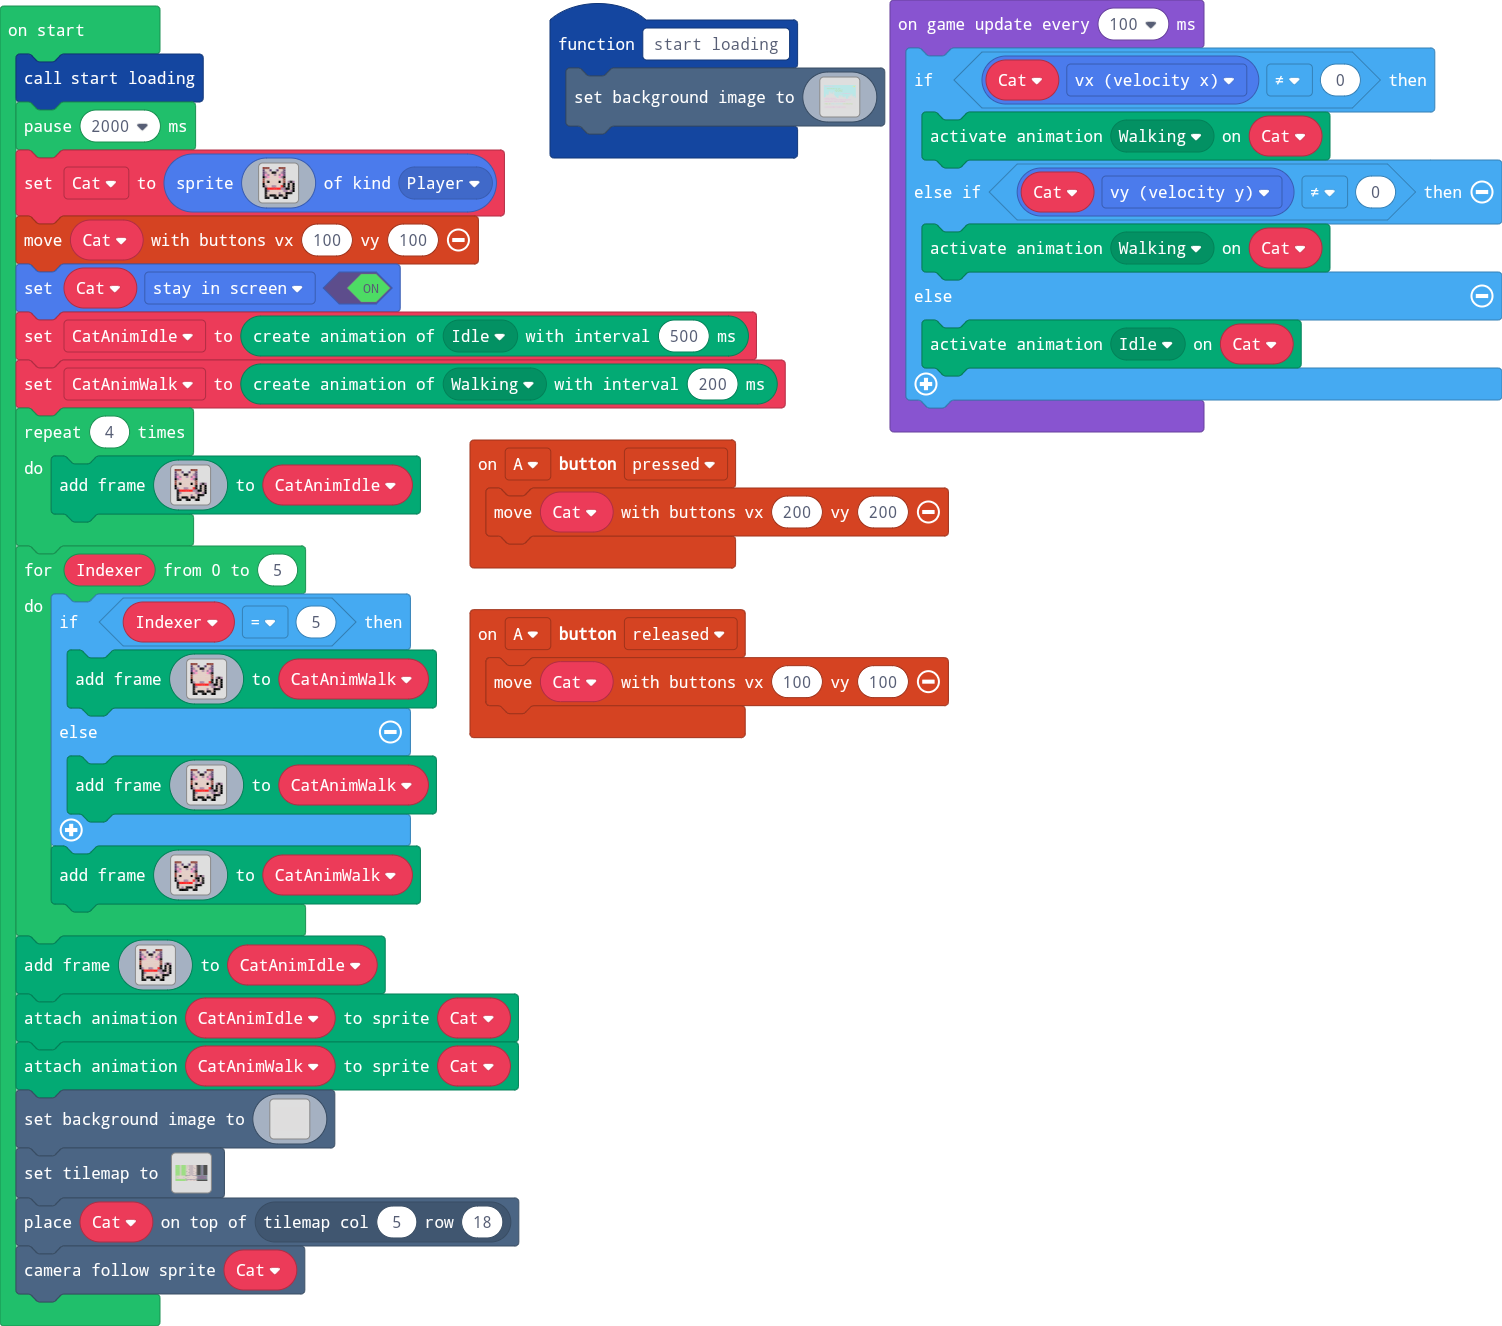
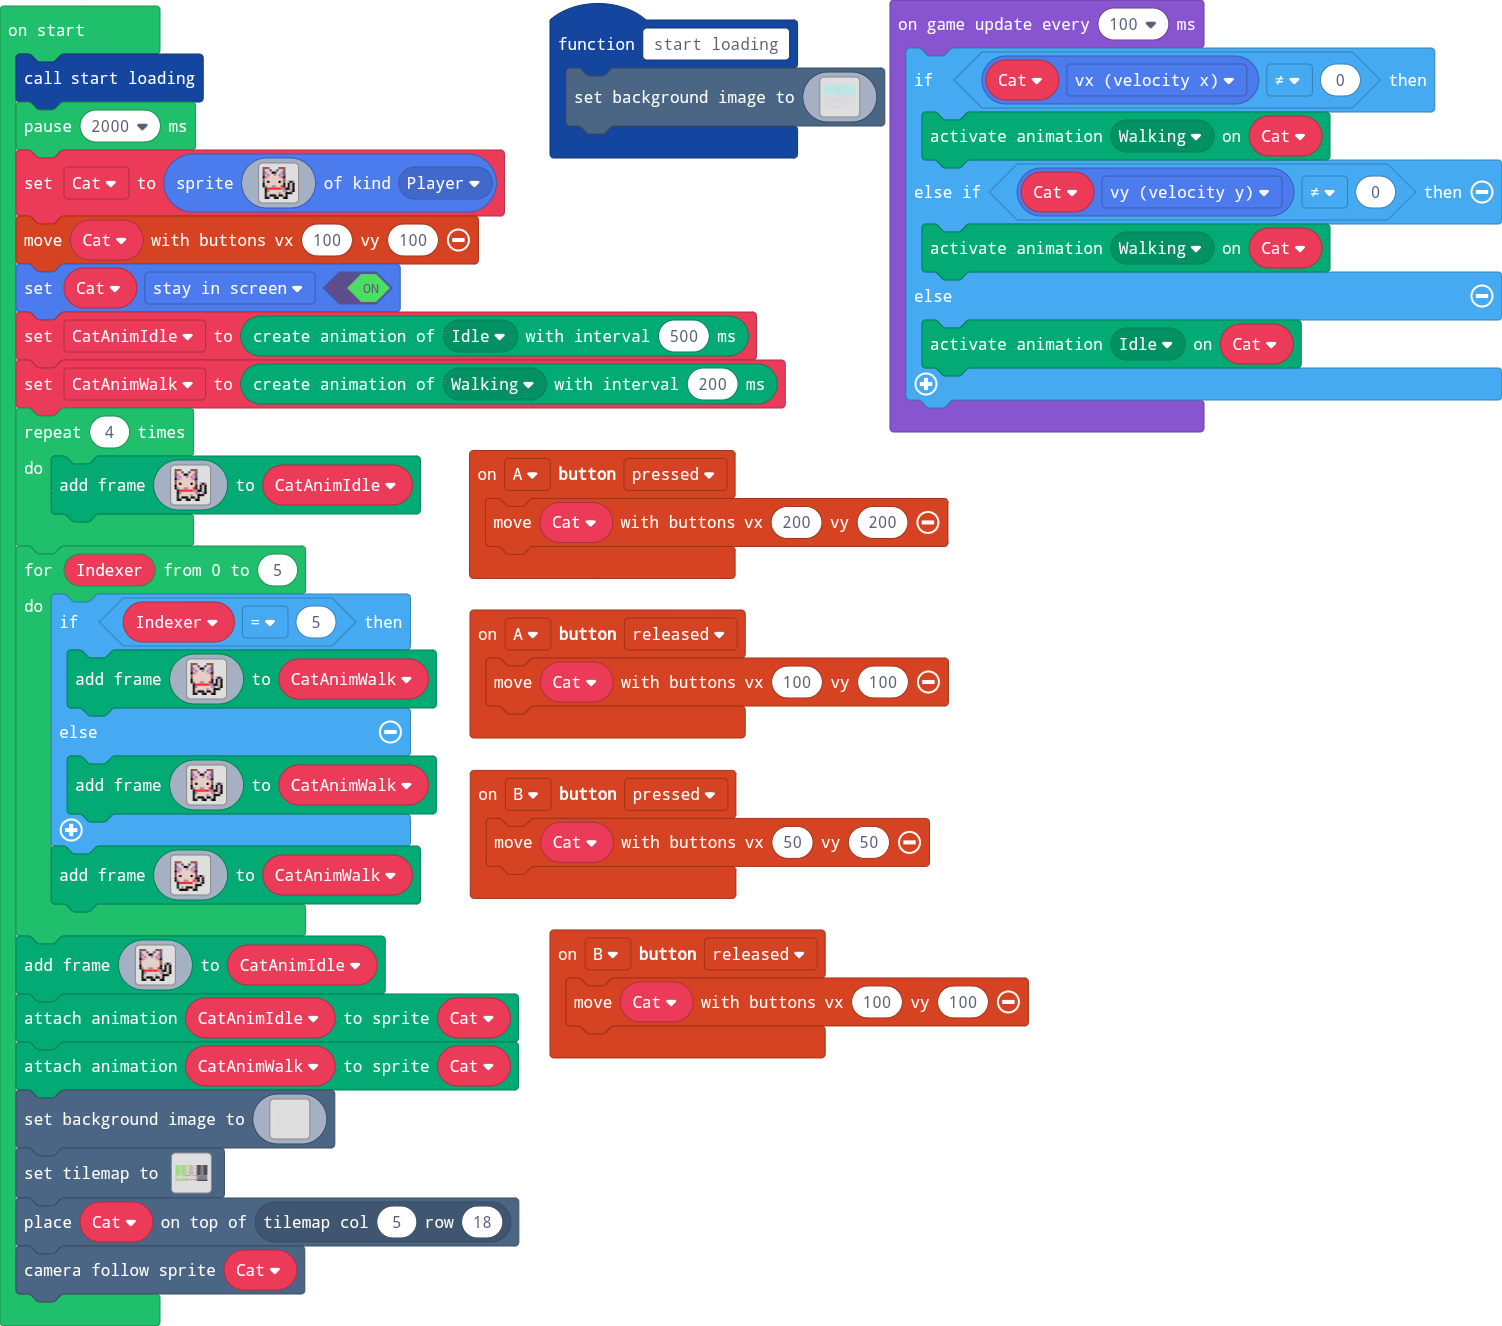
Update main.blocks, main.ts

Changed region(s): [[0.3063, 0.5566, 0.7044, 0.8039], [0.3063, 0.3092, 0.6431, 0.4638]]

diff --git a/main.ts b/main.ts
@@ -493,6 +493,12 @@ d d d d d d d d d d d d d d d d d d d d d d d d d d d d d d d d d d d d d d d d 
 d d d d d d d d d d d d d d d d d d d d d d d d d d d d d d d d d d d d d d d d d d d d d d d d d d d d d d d d d d d d d d d d d d d d d d d d d d d d d d d d d d d d d d d d d d d d d d d d d d d d d d d d d d d d d d d d d d d d d d d d d d d d d d d d d d d d d d d d d d d d d d d d d d d d d d d d d d d d d d d d 
 `)
 }
+controller.B.onEvent(ControllerButtonEvent.Pressed, function () {
+    controller.moveSprite(Cat, 50, 50)
+})
+controller.B.onEvent(ControllerButtonEvent.Released, function () {
+    controller.moveSprite(Cat, 100, 100)
+})
 controller.A.onEvent(ControllerButtonEvent.Pressed, function () {
     controller.moveSprite(Cat, 200, 200)
 })
